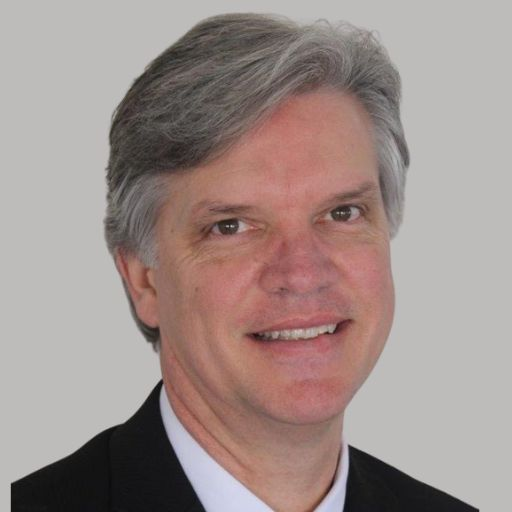
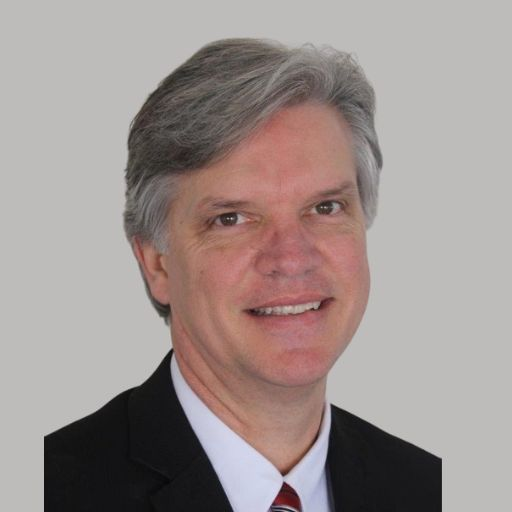
Tune John Pennington headshot and team card object position

Changed region(s): [[0.0, 0.0, 0.9375, 1.0], [0.4062, 0.5, 0.4375, 0.5312]]

diff --git a/src/components/TeamSection.tsx b/src/components/TeamSection.tsx
@@ -381,7 +381,8 @@ function TeamCard({ member, index, shouldCenter = false, isFlipCard = false }: {
   // Determine object position based on member
   let objectPosition = 'center top';
   if (isJonPennington) {
-    objectPosition = 'center 35%';
+    // Low vertical % adds headroom under the card top (same idea as Dr. Barry / default top alignment)
+    objectPosition = 'center 10%';
   } else if (isTomCoppa) {
     objectPosition = 'center 12%'; // Moved up to reduce gap at top
   } else if (isDrBarryMangel) {